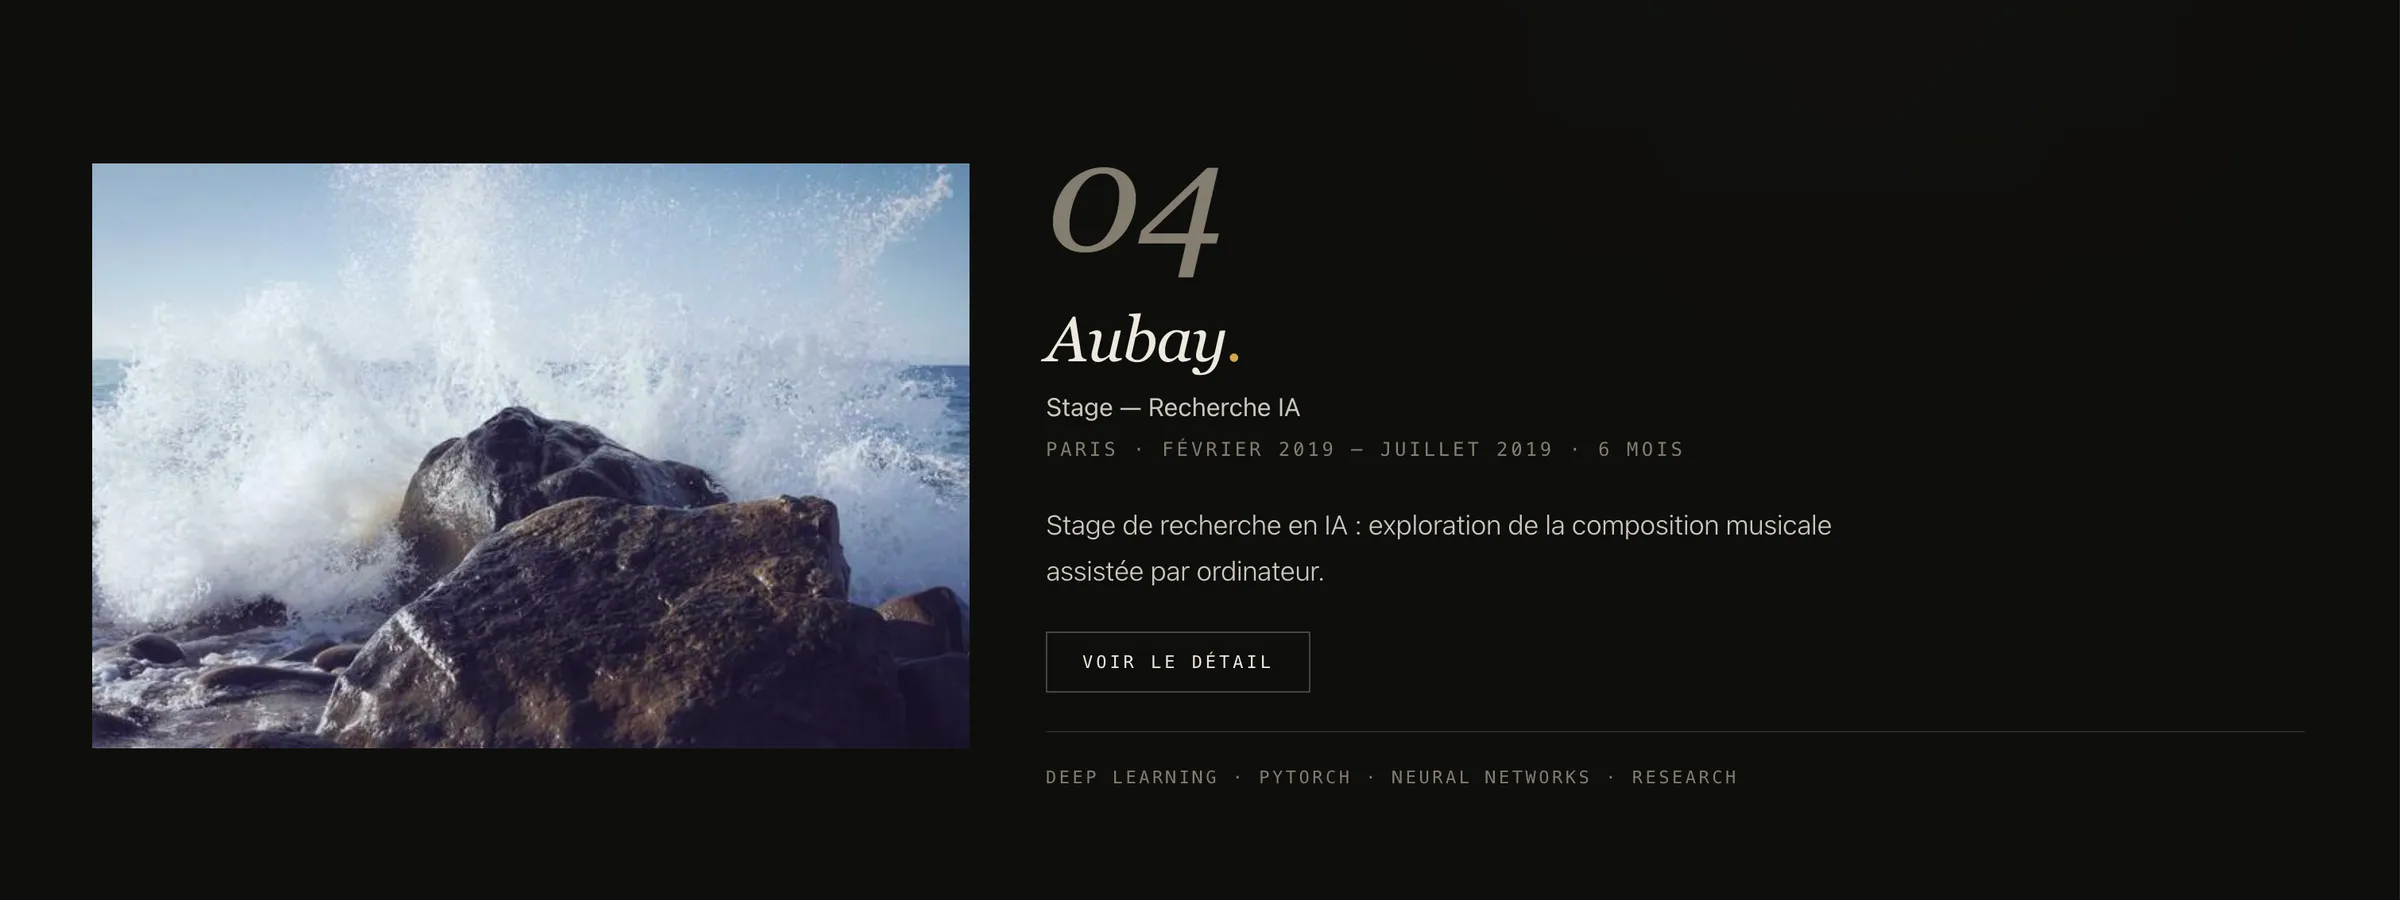
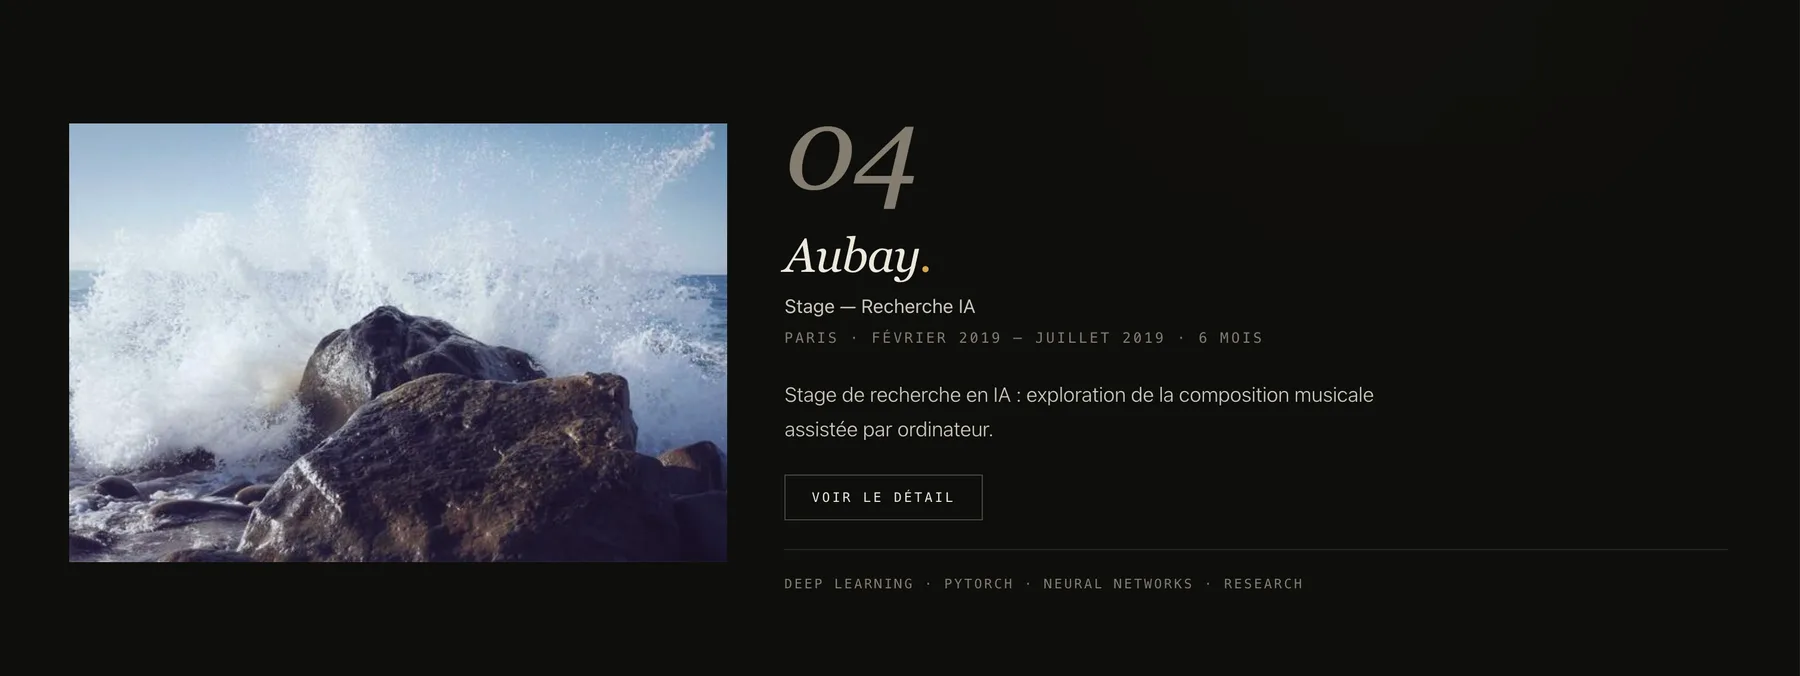
fix(chooser): show full screenshots — contain instead of cover
- background-size switches from cover (crop) to contain (full image
  visible). The surrounding letterbox is filled by each half's own
  background-color (cream for editorial, near-black for cinema) so
  the screenshots read as framed photos rather than full-bleed crops.
- Screenshots re-imported at their natural aspect ratio: editorial
  becomes 1800×538, cinema 1800×676. No more aggressive resize that
  was distorting the original framing.
- Tint overlay softened to a one-sided gradient (only near the
  caption edge), keeping the screenshot itself crisp and clearly
  identifiable as the design preview.

diff --git a/src/shared/components/Chooser.css b/src/shared/components/Chooser.css
@@ -38,18 +38,23 @@
   overflow: hidden;
   display: flex;
   flex-direction: column;
-  background-size: cover;
+  /* Show the whole screenshot — no crop. Letterboxing is filled by the
+     variant's own background-color so it reads as a framed photo. */
+  background-size: contain;
+  background-repeat: no-repeat;
   background-position: center;
 }
 
 .chooser-half--editorial {
   /* caption sits at TOP of the half (magazine masthead) */
   justify-content: flex-start;
+  background-color: #F5EDE0;
 }
 
 .chooser-half--cinema {
   /* caption sits at BOTTOM of the half (film credit) */
   justify-content: flex-end;
+  background-color: #0A0908;
 }
 
 .chooser-half:focus-visible {
@@ -66,20 +71,22 @@
 }
 
 .chooser-half--cinema .chooser-half__tint {
+  /* Light touch: keep the screenshot crisp. Slight darkening near the
+     edges where the caption sits, transparent over the image content. */
   background: linear-gradient(
     0deg,
-    rgba(0, 0, 0, 0.6) 0%,
-    rgba(0, 0, 0, 0.25) 60%,
-    rgba(0, 0, 0, 0.55) 100%
+    rgba(0, 0, 0, 0.35) 0%,
+    rgba(0, 0, 0, 0) 35%,
+    rgba(0, 0, 0, 0) 100%
   );
 }
 
 .chooser-half--editorial .chooser-half__tint {
   background: linear-gradient(
     180deg,
-    rgba(245, 237, 224, 0.45) 0%,
-    rgba(245, 237, 224, 0.15) 50%,
-    rgba(220, 201, 162, 0.5) 100%
+    rgba(245, 237, 224, 0.35) 0%,
+    rgba(245, 237, 224, 0) 35%,
+    rgba(245, 237, 224, 0) 100%
   );
 }
 
